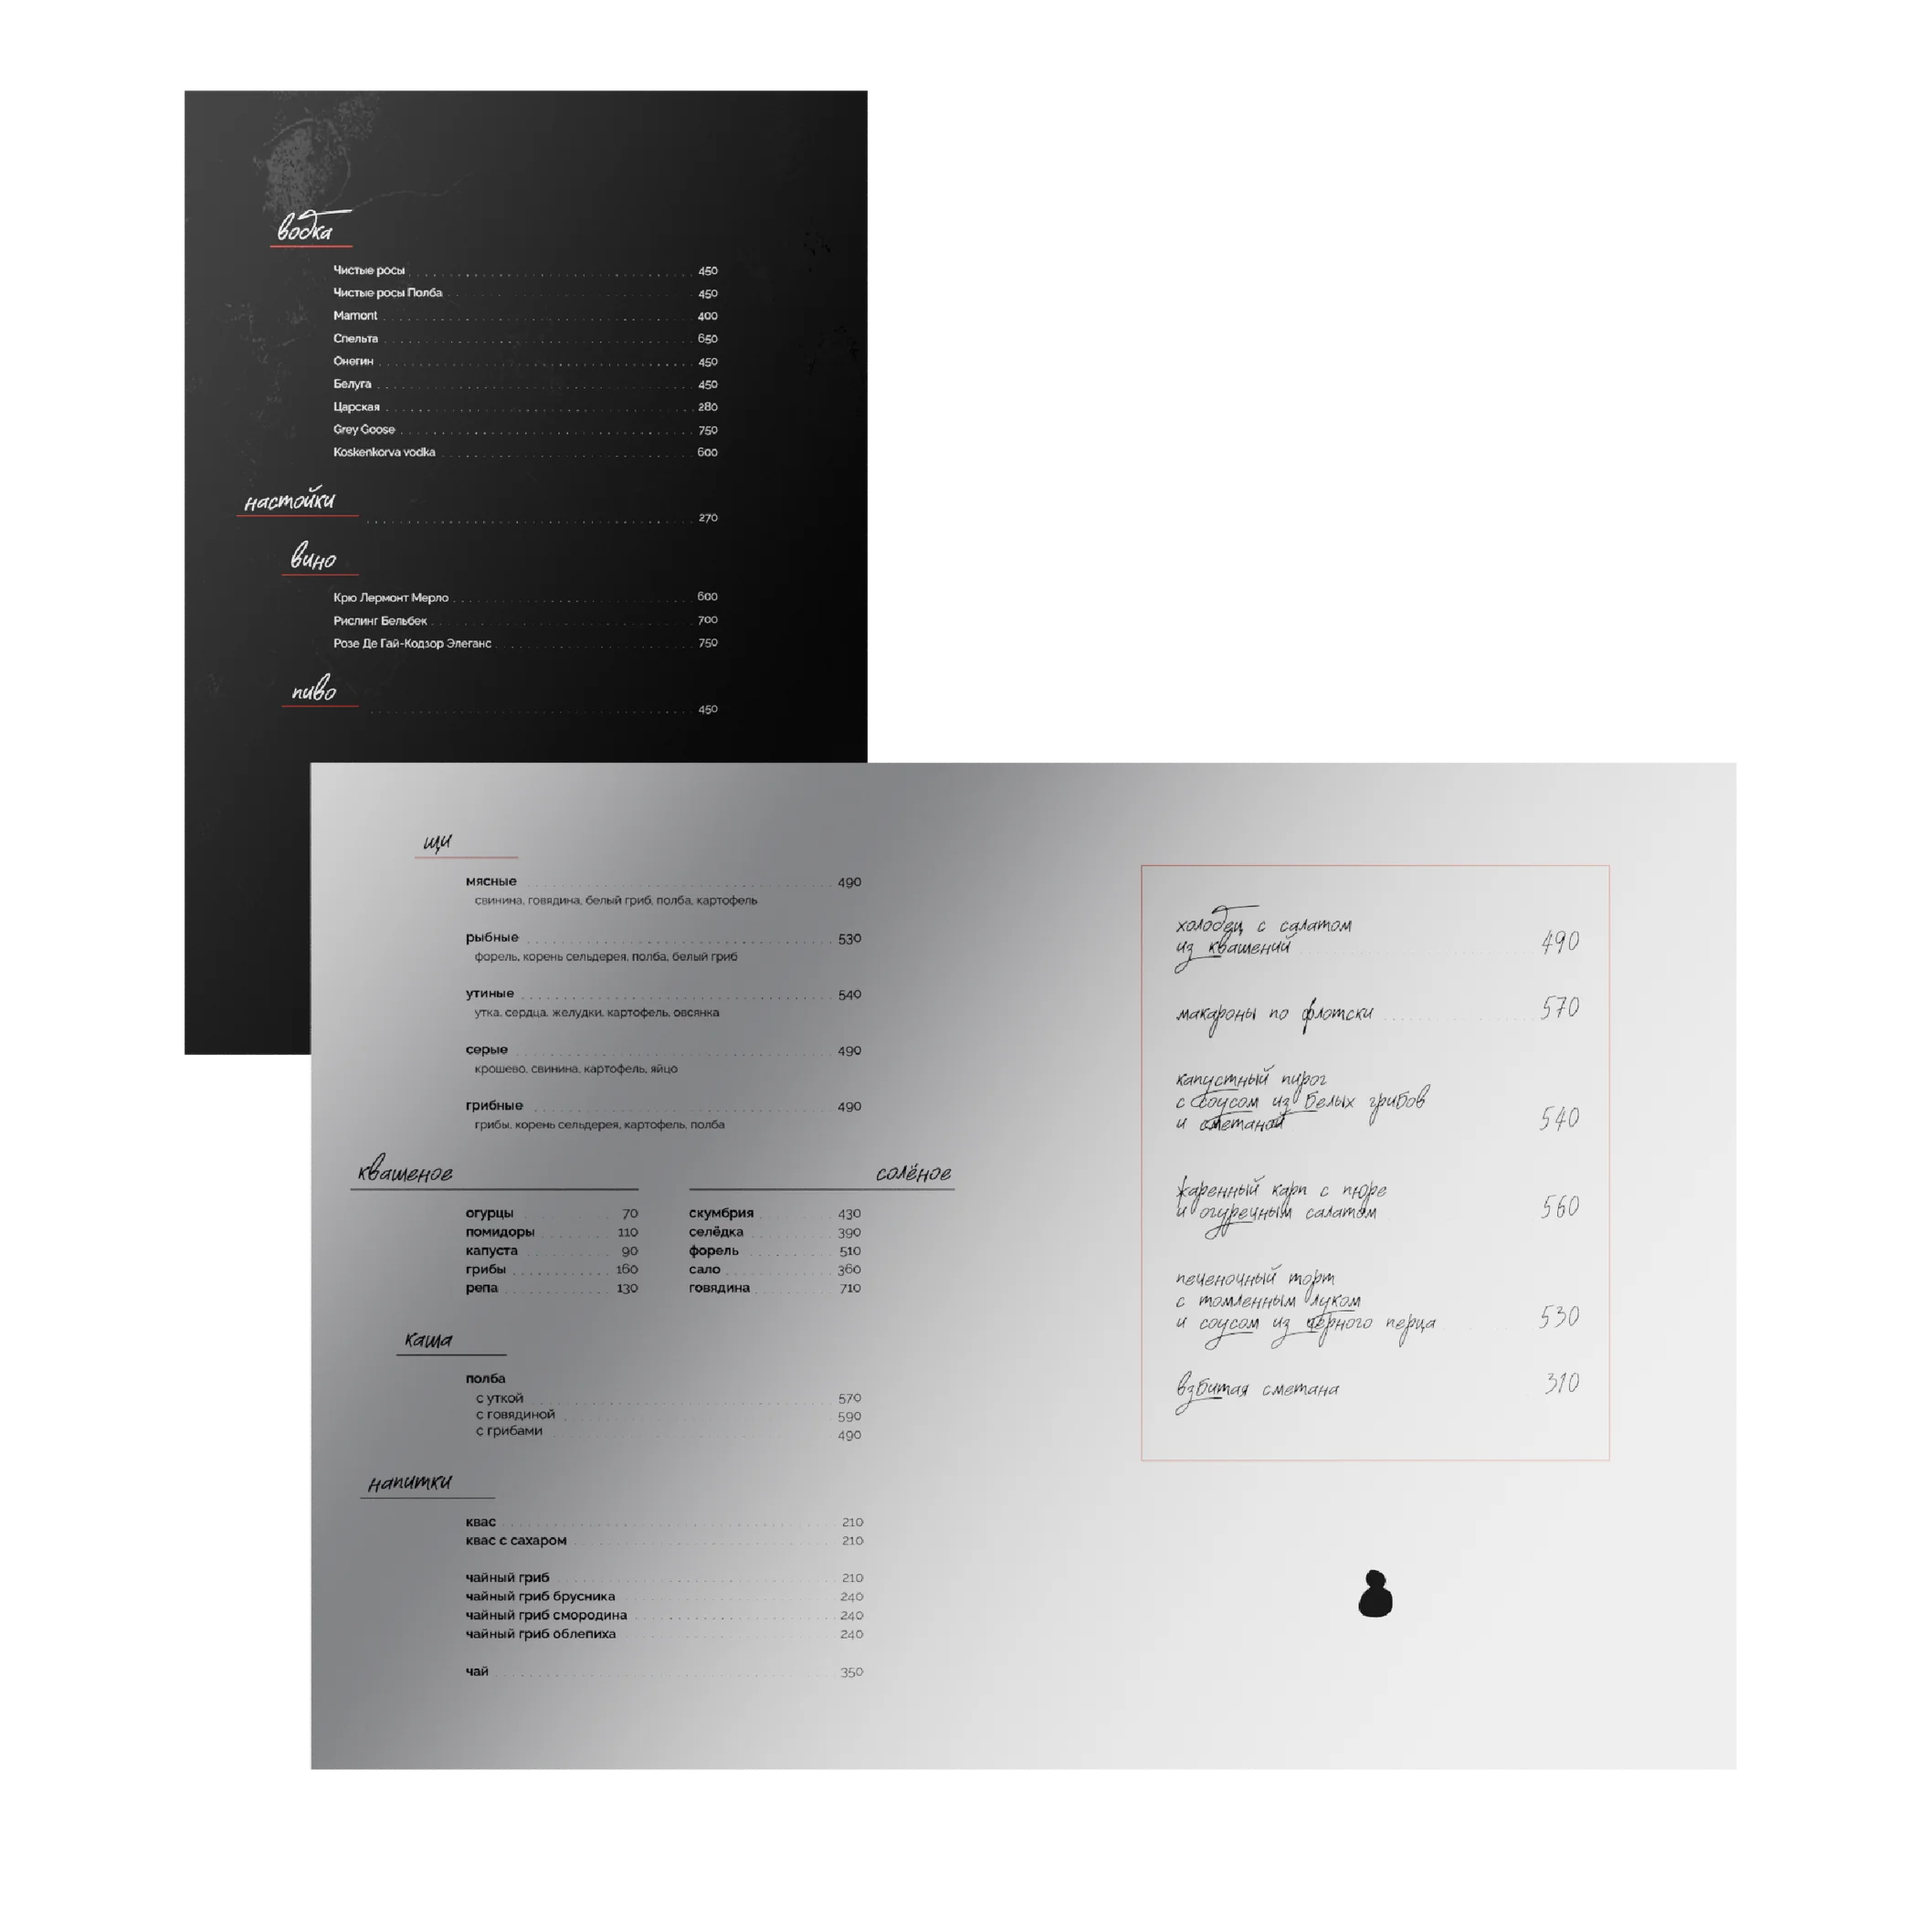
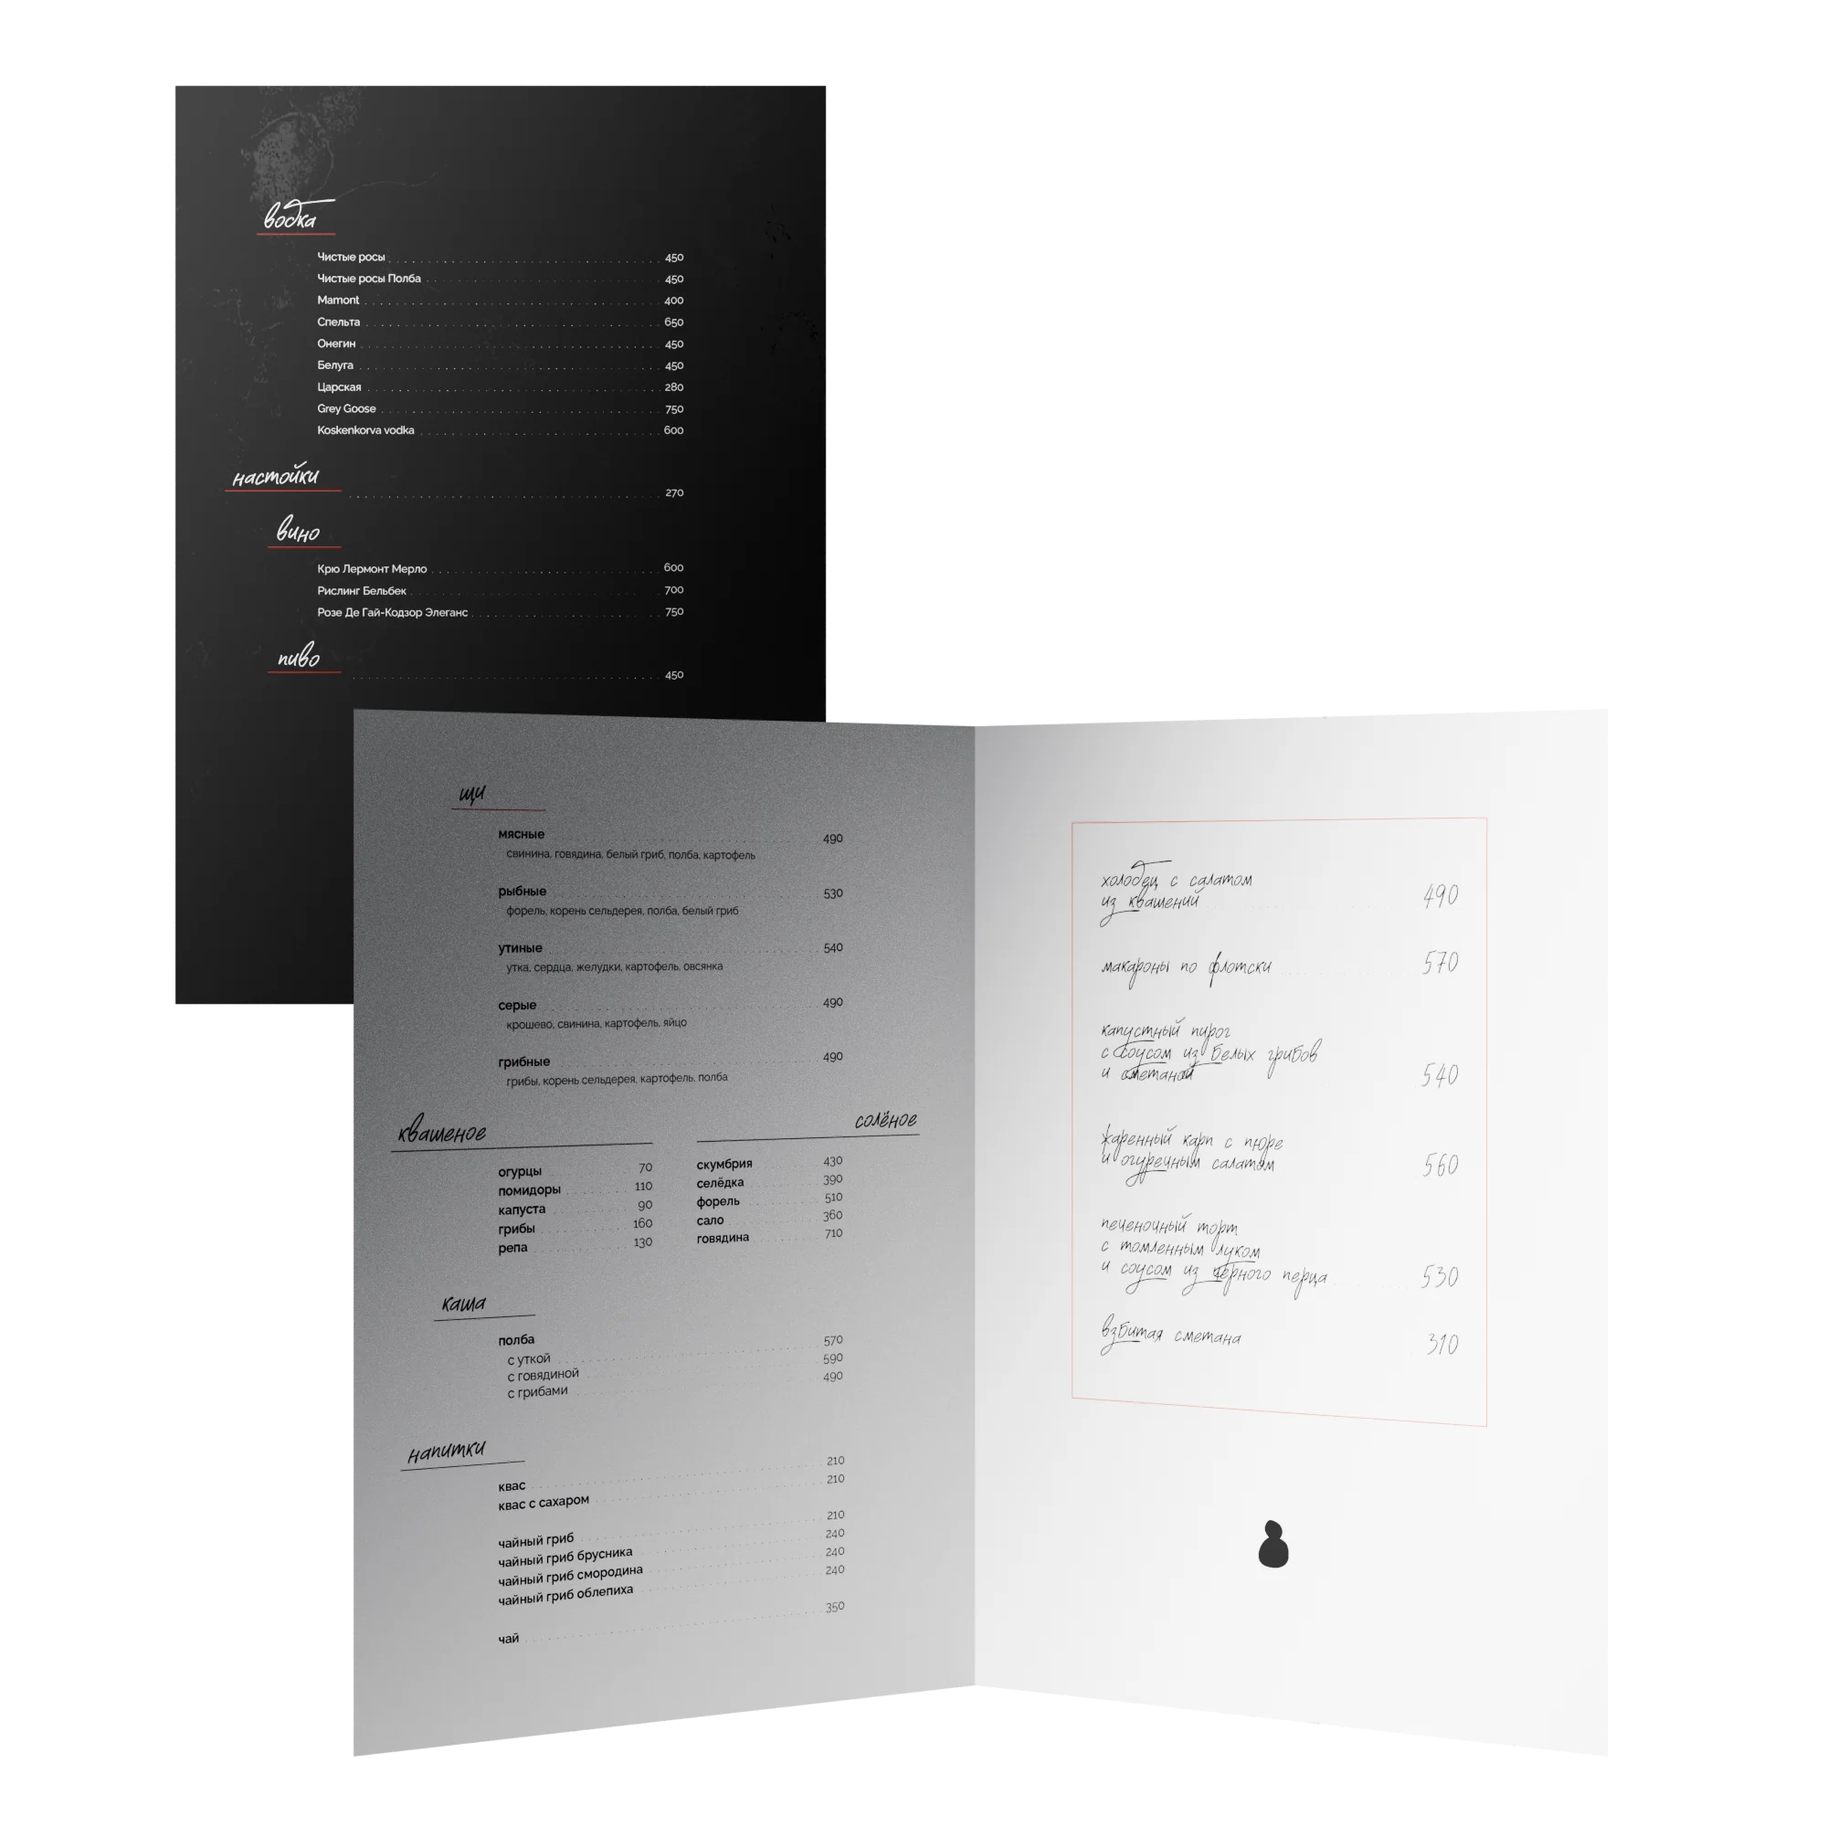
Ба: новое меню — раскрытая книжка

diff --git a/shh-creative/ba.html b/shh-creative/ba.html
@@ -845,7 +845,7 @@ window.addEventListener('message',function(e){if(!e.data||!e.data.lang)return;us
 </div>
 
 <div class="el-row">
-  <img class="el-menu ba-fx" src="media/ba-menu.webp" alt="" width="2100" height="2101" loading="lazy" decoding="async" />
+  <img class="el-menu ba-fx" src="media/ba-menu.webp?v=2" alt="" width="2000" height="2000" loading="lazy" decoding="async" />
   <img class="el-buscard ba-fx" src="media/ba-buscard.webp" alt="" width="1400" height="1400" loading="lazy" decoding="async" />
 </div>
 

diff --git a/projects/ba.html b/projects/ba.html
@@ -1,1 +1,1 @@
-<iframe src="shh-creative/ba.html?v=20260927-4" class="project-iframe" frameborder="0"></iframe>
+<iframe src="shh-creative/ba.html?v=20260927-5" class="project-iframe" frameborder="0"></iframe>
